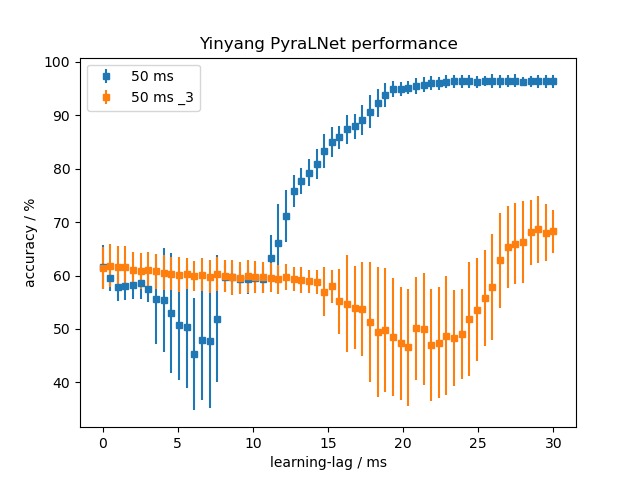
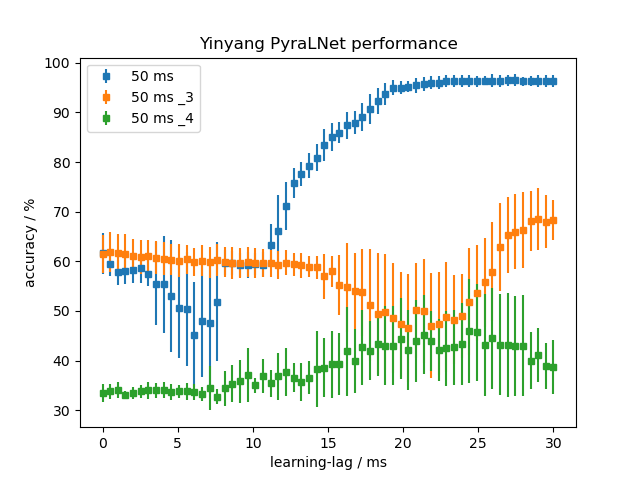
Bugfix PyraLNet

diff --git a/backprop/eval/eval.py b/backprop/eval/eval.py
@@ -1,0 +1,28 @@
+import numpy as np
+import matplotlib.pyplot as plt
+
+##### Vary Learning-Lag #####
+
+pyral_perf = np.loadtxt("./runs/yinyang_pyralnet_vary_llag/results/results_df_stats.csv", usecols=[8,9,10,11], delimiter=",", skiprows=2)# [learning_lag, mean, std, sem]
+pyral_perf_200 = np.loadtxt("./runs/yinyang_pyralnet_vary_llag_200ms/results/results_df_stats.csv", usecols=[8,9,10,11], delimiter=",", skiprows=2)# [learning_lag, mean, std, sem]
+pyral_perf_50 = np.loadtxt("./runs/yinyang_pyralnet_vary_llag_50ms/results/results_df_stats.csv", usecols=[8,9,10,11], delimiter=",", skiprows=2)# [learning_lag, mean, std, sem]
+pyral_perf_50_2 = np.loadtxt("./runs/yinyang_pyralnet_vary_llag_50ms_2/results/results_df_stats.csv", usecols=[8,9,10,11], delimiter=",", skiprows=2)# [learning_lag, mean, std, sem]
+pyral_perf_50_3 = np.loadtxt("./runs/yinyang_pyralnet_vary_llag_50ms_3/results/results_df_stats.csv", usecols=[8,9,10,11], delimiter=",", skiprows=2)# [learning_lag, mean, std, sem]
+pyral_perf_50_4 = np.loadtxt("./runs/yinyang_pyralnet_vary_llag_50ms_4/results/results_df_stats.csv", usecols=[8,9,10,11], delimiter=",", skiprows=2)# [learning_lag, mean, std, sem]
+pyral_perf_300 = np.loadtxt("./runs/yinyang_pyralnet_vary_llag_300ms/results/results_df_stats.csv", usecols=[8,9,10,11], delimiter=",", skiprows=2)[:60]# [learning_lag, mean, std, sem]
+
+
+plt.title("Yinyang PyraLNet performance")
+#plt.errorbar(pyral_perf[:,0], pyral_perf[:, 1]*100, yerr=pyral_perf[:, 2]*100, fmt='o', label="100 ms", markersize=4)
+#plt.errorbar(pyral_perf_200[:,0], pyral_perf_200[:, 1]*100, yerr=pyral_perf_200[:, 2]*100, fmt='^', label="200 ms", markersize=4)
+plt.errorbar(pyral_perf_50[:,0], pyral_perf_50[:, 1]*100, yerr=pyral_perf_50[:, 2]*100, fmt='s', label="50 ms", markersize=4)
+#plt.errorbar(pyral_perf_50_2[:,0], pyral_perf_50_2[:, 1]*100, yerr=pyral_perf_50_2[:, 2]*100, fmt='s', label="50 ms _2", markersize=4)
+plt.errorbar(pyral_perf_50_3[:,0], pyral_perf_50_3[:, 1]*100, yerr=pyral_perf_50_3[:, 2]*100, fmt='s', label="50 ms _3", markersize=4)
+plt.errorbar(pyral_perf_50_4[:,0], pyral_perf_50_4[:, 1]*100, yerr=pyral_perf_50_4[:, 2]*100, fmt='s', label="50 ms _4", markersize=4)
+
+#plt.errorbar(pyral_perf_300[:,0], pyral_perf_300[:, 1]*100, yerr=pyral_perf_300[:, 2]*100, fmt='*', label="300 ms", markersize=4, c="purple")
+plt.legend()
+plt.xlabel("learning-lag / ms")
+plt.ylabel("accuracy / %")
+plt.savefig("eval/yinyang_acc_vs_llag.png")
+plt.clf()

diff --git a/backprop/Scheduler.py b/backprop/Scheduler.py
@@ -8,7 +8,7 @@ from sklearn.model_selection import ParameterSampler
 nodes_per_job = 1
 cores_per_job = 20
 
-name = "yinyang_pyralnet_vary_llag_50ms_4"
+name = "yinyang_pyralnet_llag_weight_breadcrumbs"
 config = "runs/"+name+"/config/" # params for each execution
 results = "runs/"+name+"/results/" # results will go here
 tmp = "runs/"+name+"/tmp/" #job files (config files per job)
@@ -36,7 +36,7 @@ os.system('cp %s %s'%("job_pyral.sh", "runs/"+name+"/job_pyral.sh"))
 
 # build run configs and store them in 'config'
 runs = []
-seeds = [2304, 3446, 123, 4354, 8956, 283, 384, 78, 2, 6566]
+seeds = [2304, 3446, 123, 4354, 8956, 283, 384, 78, 2, 6566,    3546, 9560, 39, 4695, 222, 10923, 8587, 3822, 9950, 64333]
 run_id = 0
 
 print("build config files")
@@ -48,13 +48,13 @@ for hp in [{"ga": 0.28, "gsom": 0.34, "l_1": 6.1, "l_2_mul": 0.00012, "ip_mul": 
     l_2_mul = hp["l_2_mul"]
     ip_mul = hp["ip_mul"]
 
-    for llag in np.linspace(0, 30, 30*2):
+    for llag in [0, 3, 6, 10, 15, 20]:
         for seed in seeds:
             run_name = "%.2f_%.2f_%.2e_%.2e_%.1f__%d"%(ga, gsom, l_1, l_2_mul*l_1, llag, run_id)
             run_id += 1
 
-            params = {"name": run_name, "seed": seed, "init_sps": True, "track_sps": False, "N_train": 6000,
-                      "N_test": 600, "N_val": 600, "N_epochs": 45, "val_len": 100, "vals_per_epoch": 1,
+            params = {"name": run_name, "seed": seed, "init_sps": True, "track_sps": False, "breadcrumbs": [0, 1, 5, 10, 20, 40],
+                      "N_train": 6000, "N_test": 600, "N_val": 600, "N_epochs": 45, "val_len": 100, "vals_per_epoch": 1,
                       "model": {"dims": [4, 120, 3], "act": "sigmoid", "dt": 0.1, "gl": 0.1, "gb": 1.0,
                                 "ga": ga, "gd": 1.0,
                                 "gsom": gsom,

diff --git a/backprop/PyraLNet.py b/backprop/PyraLNet.py
@@ -79,7 +79,7 @@ class Layer:
                 u_next - u_i) + noise_on * self.noise * np.random.normal(size=len(self.u_inn["soma"])))
 
         # weight updates (lowpass weight changes)
-        if not learning_on:
+        if learning_on:
             gtot = self.gl + self.gb + self.ga
             dDelta_up = self.dt / self.tau_w * (- self.Delta_up + np.outer(
                 self.act(self.u_pyr["soma"]) - self.act(self.gb / gtot * self.u_pyr["basal"]), r_in_buf))
@@ -173,7 +173,7 @@ class OutputLayer:
             self.du_pyr += self.dt * self.gsom * (u_target - self.u_pyr["soma"])
 
         # weight updates (lowpass weight changes)
-        if not learning_on:
+        if learning_on:
             gtot = self.gl + self.gb
             dDelta_up = self.dt / self.tau_w * (- self.Delta_up + np.outer(
                 self.act(self.u_pyr["soma"]) - self.act(self.gb / gtot * self.u_pyr["basal"]), r_in_buf))
@@ -817,7 +817,6 @@ def run_yinyang(params, name, dir):
                         n_out=3, classify=True, u_high=1.0, u_low=0.1, metric=accuracy,
                         rec_pots=rec_pots, rec_dt=1000 if rec_pots is not None else 0,
                         breadcrumbs=breadcrumbs)
-    print(ret)
 
     if rec_pots is not None:
         records, T, r_in, u_trgt = ret[0], ret[1], ret[2], ret[3]

diff --git a/backprop/runs/yinyang_pyralnet_llag_weight_breadcrumbs/PyraLNet.py b/backprop/runs/yinyang_pyralnet_llag_weight_breadcrumbs/PyraLNet.py
@@ -79,7 +79,7 @@ class Layer:
                 u_next - u_i) + noise_on * self.noise * np.random.normal(size=len(self.u_inn["soma"])))
 
         # weight updates (lowpass weight changes)
-        if not learning_on:
+        if learning_on:
             gtot = self.gl + self.gb + self.ga
             dDelta_up = self.dt / self.tau_w * (- self.Delta_up + np.outer(
                 self.act(self.u_pyr["soma"]) - self.act(self.gb / gtot * self.u_pyr["basal"]), r_in_buf))
@@ -173,7 +173,7 @@ class OutputLayer:
             self.du_pyr += self.dt * self.gsom * (u_target - self.u_pyr["soma"])
 
         # weight updates (lowpass weight changes)
-        if not learning_on:
+        if learning_on:
             gtot = self.gl + self.gb
             dDelta_up = self.dt / self.tau_w * (- self.Delta_up + np.outer(
                 self.act(self.u_pyr["soma"]) - self.act(self.gb / gtot * self.u_pyr["basal"]), r_in_buf))
@@ -817,7 +817,6 @@ def run_yinyang(params, name, dir):
                         n_out=3, classify=True, u_high=1.0, u_low=0.1, metric=accuracy,
                         rec_pots=rec_pots, rec_dt=1000 if rec_pots is not None else 0,
                         breadcrumbs=breadcrumbs)
-    print(ret)
 
     if rec_pots is not None:
         records, T, r_in, u_trgt = ret[0], ret[1], ret[2], ret[3]

diff --git a/backprop/runs/yinyang_pyralnet_vary_llag_50ms_4/PyraLNet.py b/backprop/runs/yinyang_pyralnet_vary_llag_50ms_4/PyraLNet.py
@@ -79,7 +79,7 @@ class Layer:
                 u_next - u_i) + noise_on * self.noise * np.random.normal(size=len(self.u_inn["soma"])))
 
         # weight updates (lowpass weight changes)
-        if not learning_on:
+        if learning_on:
             gtot = self.gl + self.gb + self.ga
             dDelta_up = self.dt / self.tau_w * (- self.Delta_up + np.outer(
                 self.act(self.u_pyr["soma"]) - self.act(self.gb / gtot * self.u_pyr["basal"]), r_in_buf))
@@ -173,7 +173,7 @@ class OutputLayer:
             self.du_pyr += self.dt * self.gsom * (u_target - self.u_pyr["soma"])
 
         # weight updates (lowpass weight changes)
-        if not learning_on:
+        if learning_on:
             gtot = self.gl + self.gb
             dDelta_up = self.dt / self.tau_w * (- self.Delta_up + np.outer(
                 self.act(self.u_pyr["soma"]) - self.act(self.gb / gtot * self.u_pyr["basal"]), r_in_buf))
@@ -817,7 +817,6 @@ def run_yinyang(params, name, dir):
                         n_out=3, classify=True, u_high=1.0, u_low=0.1, metric=accuracy,
                         rec_pots=rec_pots, rec_dt=1000 if rec_pots is not None else 0,
                         breadcrumbs=breadcrumbs)
-    print(ret)
 
     if rec_pots is not None:
         records, T, r_in, u_trgt = ret[0], ret[1], ret[2], ret[3]

diff --git a/backprop/build_df.py b/backprop/build_df.py
@@ -3,7 +3,7 @@ import pandas as pd
 
 ### builds pandas dataframe from results.txt file
 
-name = "yinyang_pyralnet_vary_llag_50ms_3"
+name = "yinyang_pyralnet_vary_llag_50ms_4"
 results = "runs/"+name+"/results/"
 configs = "runs/"+name+"/config/"
 COLLAPSE_SEEDS = True
